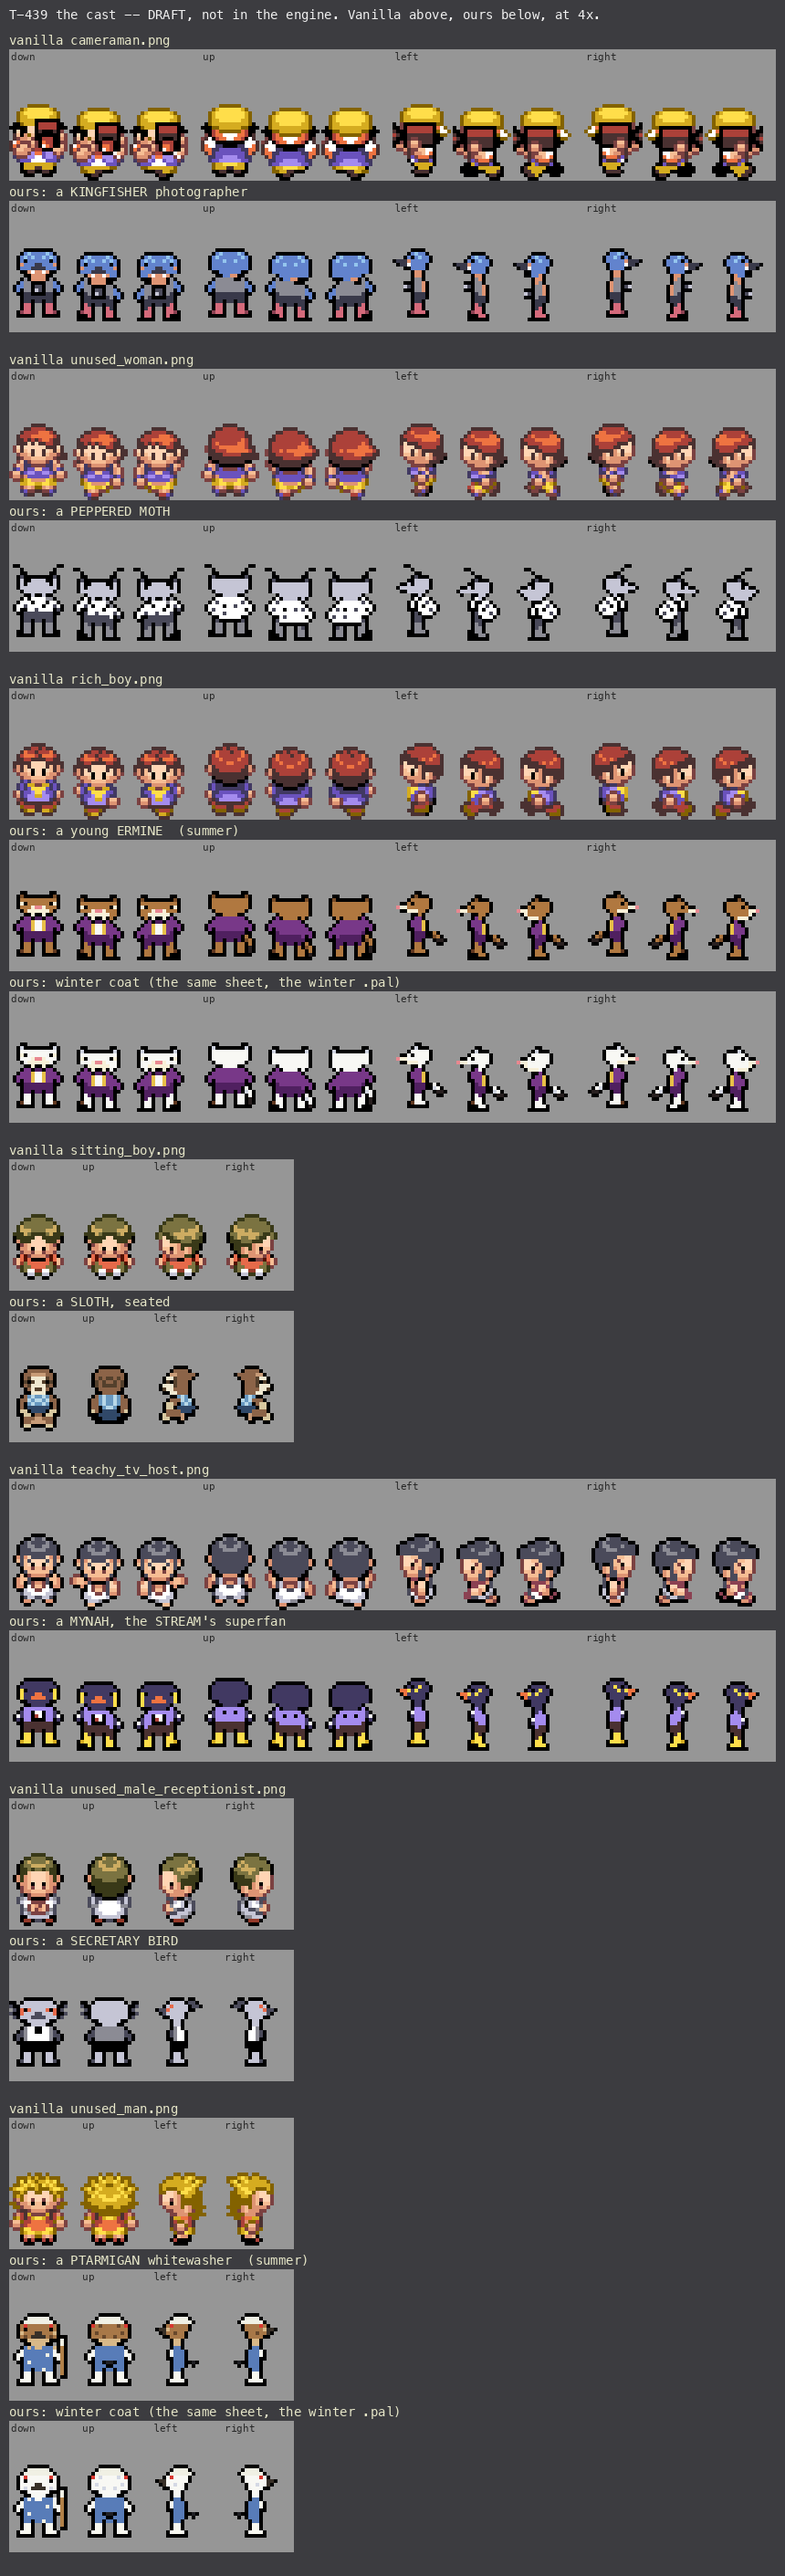
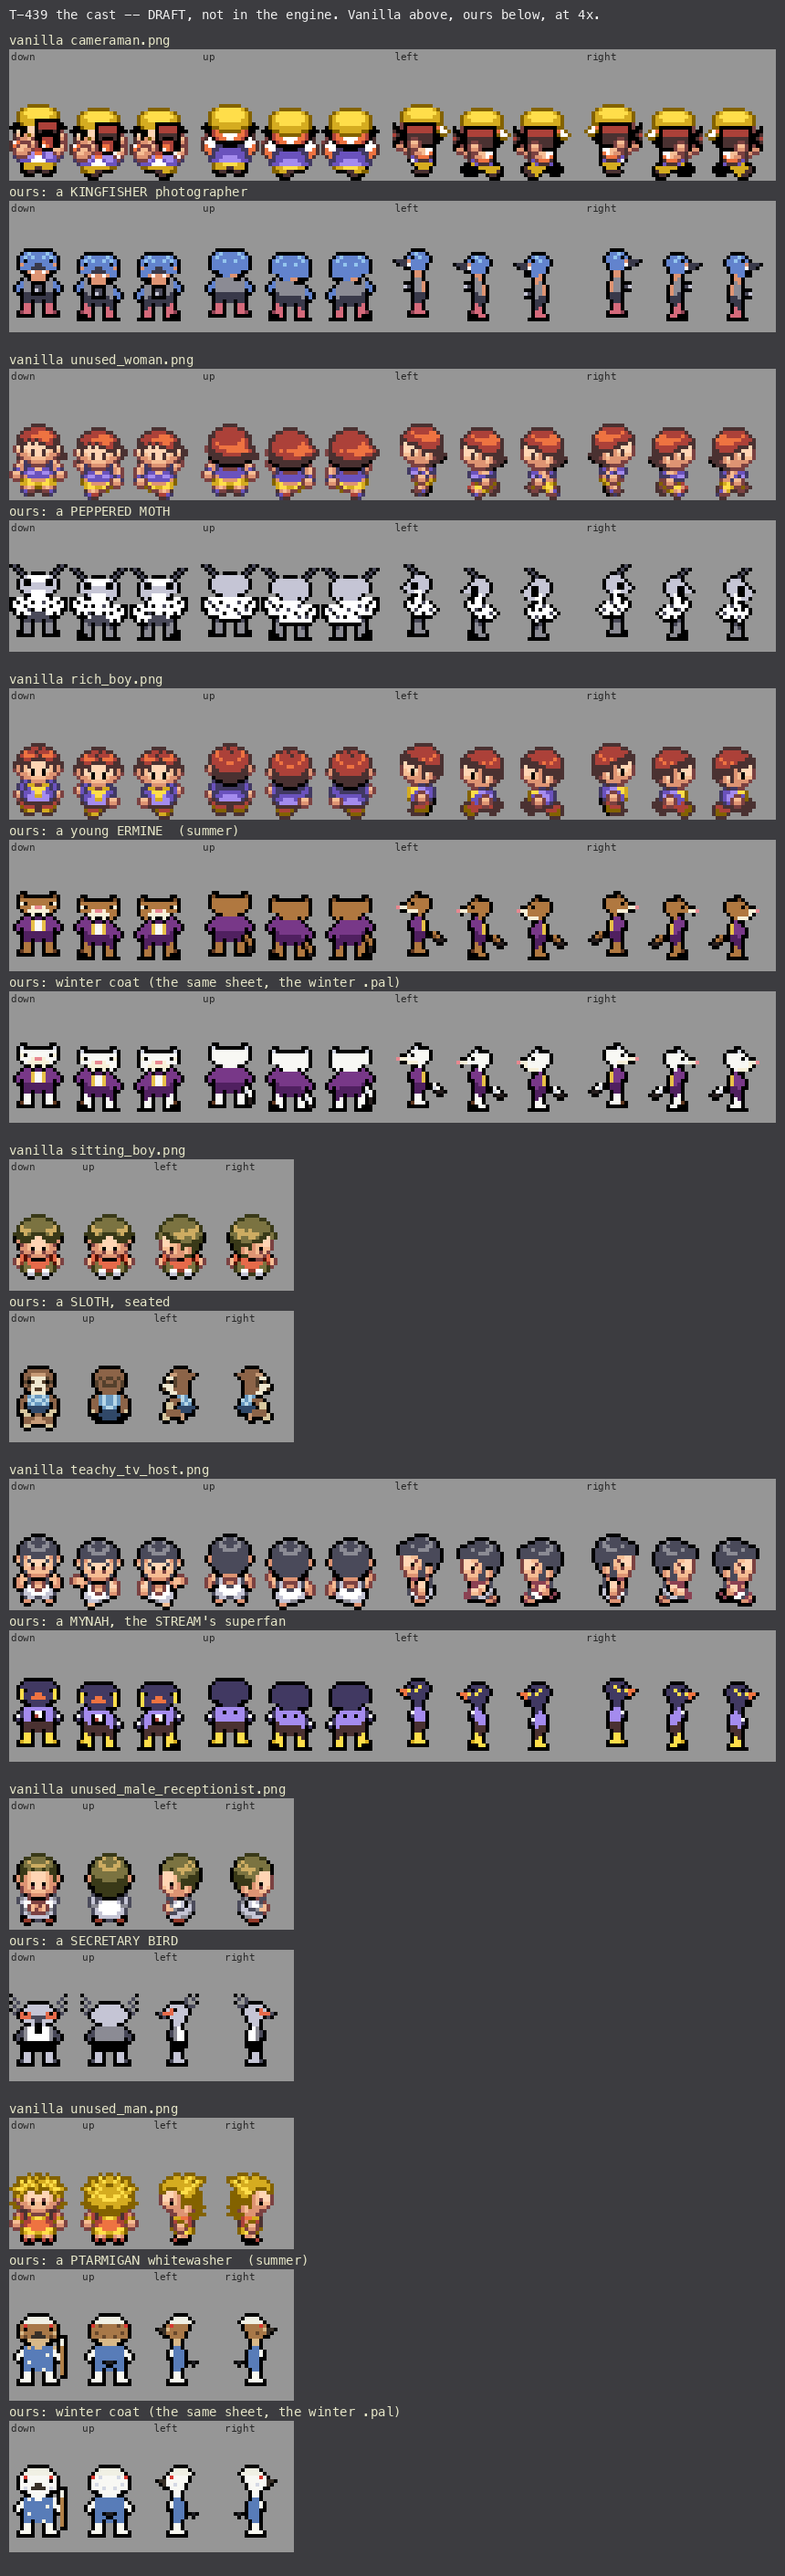
T-439 draft: the moth and secretary bird strengthened

diff --git a/tools/gencast.py b/tools/gencast.py
@@ -4,6 +4,8 @@
     python3 tools/gencast.py                  # report: who each one is, its frames, its palette, does it fit
     python3 tools/gencast.py --draft [DIR]    # the sheets and palettes as PNG/.pal in DIR (gfx/drafts/t439/)
     python3 tools/gencast.py --sheets DIR     # the contact sheets: vanilla beside ours at 4x, and each over its map at 2x
+                                              #   (--before OLD adds t439_draw_fix.png: the moth and secretary bird
+                                              #   against an earlier draft's sheets in OLD)
     python3 tools/gencast.py --write          # into the engine -- NOT YET: the cast is a draft until the user has
                                               #   seen the sheets (then --write --approved)
 
@@ -124,19 +126,20 @@ KINGFISHER = (_f, _b, _s)
 # ============================================================ the PEPPERED MOTH (unused_woman.png, npc_pink)
 # Speckled wings worn as a shawl, a pale furred face, big black eyes, two feathered antennae. She reads grey in
 # HALFTONE by design: so does her story.
-_h = mammal("w", "G", "w")
-_h = (put(put(put(_h[0], 4, 4, "K"), 5, 4, "K"), 4, 5, "K"), _h[1], put(put(_h[2], 5, 5, "K"), 4, 5, "K"))
-_f, _b, _s = fig(_h, "W", "WWWW", "G", "g", "K")
-_ant_f = [" KK          KK ", "   K        K   "]                    # two feathered antennae
-_f = overlay(_f, 0, _ant_f, 0)
-_b = overlay(_b, 0, _ant_f, 0)
-_s = overlay(_s, 0, ["   KK", "     K"], 0)
-for _r, _c in ((9, 5), (10, 10), (11, 4), (11, 12), (12, 7), (10, 2), (12, 13), (9, 10), (12, 4), (10, 6), (11, 9)):  # the pepper
-    _f = put(_f, _r, _c, "G" if (_r + _c) % 2 else "K")
-_f = overlay(_f, 9, ["      gg"], 4)                                # the shawl's knot at the throat
-_b = overlay(_b, 9, ["   KWWWWWWWWK", "  KWGWWWWWWGWK", " KWWWWKWWGWWWWK", " KWGWWWWWWWWKWK", "  KWWWGWWWWWWK",
-                     "   KKWWWWWWKK", "     KKKKKK"], 0)                # the wings, folded down her back
-_s = overlay(_s, 9, ["    KWWK", "   KWWGWK", "   KWKWWWK", "   KWWWGWK", "    KWWWK", "     KKK"], 3)
+# T-439 (the user, 2026-10-22): unmistakably a moth FROM THE FRONT -- the antennae feathered and spread wide, the
+# pepper dark and clear on pale, and the wings standing out behind her shoulders, so the head is drawn by hand.
+_ant = ["KGK     ", " KGK    ", "  KGK KK"]                             # feathered, spread wide, meeting the crown
+_mf = _ant + ["   KwWWW", "  KwKKWW", "  KwKKww", "  Kwwwww", "   KwwWW", "    KKWW"]   # big black eyes, a fluffy collar
+_mb = _ant + ["   Kwwww", "  Kwwwww", "  Kwwwww", "  Kwwwww", "   Kwwww", "    KKww"]
+_ms = ["   KGK", "    KGK", "     KGKK", "     KwwwK", "    KwwwwwK", "   KwKKwwwK", "  KwwKKwwwK",
+       "   KwwWWwK", "     KKWK"]
+_f, _b, _s = fig((_mf, _mb, _ms), "W", "WWWW", "G", "g", "K")
+_wings = mirror(["KKWWKWWW", "KWKWWWKW", "KWWWKWWW", "KKWWWWKW", " KWKWWGG", "  KKKGGG"])   # the shawl, wing-wide
+_f = overlay(_f, 9, _wings, 0)
+_f = put(put(put(_f, 10, 9, "G"), 12, 5, "G"), 11, 11, "K")          # and the pepper, never quite even
+_b = overlay(_b, 9, ["KKWWWWWWWWWWWWKK", "KWGWWKWWWWGWWKWK", "KWWKWWWGWWWWKWWK", "KKWWGWWWWKWWGWKK",
+                     " KWWWWKWWWGWWWK ", "  KKKWWWWWWKKK  ", "     KKKKKK     "], 0)   # the wings, folded down her back
+_s = overlay(_s, 9, ["  KKWWK", " KWKWWGWK", " KWWWKWWWK", "  KWGWWWGWK", "   KWWKWWK", "    KKKKK"], 2)
 MOTH = (_f, _b, _s)
 
 # ============================================================ the young ERMINE (rich_boy.png, a palette of his own)
@@ -162,17 +165,24 @@ ERMINE = (_f, _b, _s)
 #            w pale grey  g grey  G dark grey  W white  K black
 # Pale grey, the bare orange face, a hooked bill, the quills behind the head he is named for, black thighs as
 # trousers and the long legs; a grey waistcoat and a black tie at the desk.
-_h = bird("w", "R", "G")
-_h = (put(put(_h[0], 4, 3, "R"), 4, 5, "R"), _h[1], put(put(_h[2], 3, 5, "R"), 4, 4, "R"))
-_f, _b, _s = fig(_h, "G", "gWWW", "K", "w", "G")
+# T-439 (the user, 2026-10-22): the crest must read as QUILLS, not ears -- separate dark strokes raked back and out
+# behind both cheeks -- with the bare orange face and the hooked bill. The head is drawn by hand for it.
+_sf = ["K       ",
+       " G      ",
+       "K G  KKK",      # three quills a side, each its own stroke, raked out from behind the crown
+       " G  Kwww",
+       "K GKwwww",
+       " GKRKRww",      # the bare orange face round the eye
+       "  KRRRGG",      # the bill, broad at the base
+       "   KwwwG",
+       "    KKwK"]      # and its hook, dropping at the middle
+_sb = ["K       ", " G      ", "K G  KKK", " G  Kwww", "K GKwwww", " GKwwwww", "  Kwwwww", "   Kwwww", "    KKww"]
+_ss = ["          K K", "         G G", "     KKKKG  K", "    KwwwwKGG", "   KwRKwwwK", " KGRRRwwwwK", "  KGKwwwwK",
+       "     KwwwK", "     KwwK"]
+_f, _b, _s = fig((_sf, _sb, _ss), "G", "gWWW", "K", "w", "G")
 _f = overlay(_f, 9, ["KK"], 7)                                       # the tie
-_f = overlay(_f, 10, ["K"], 7)
-_f = overlay(_f, 10, ["K"], 8)
-_quills_f = ["KK            KK", "GKK          KKG", " GK          KG ", "GKK          KKG", " GK          KG "]
-_f = overlay(_f, 2, _quills_f, 0)                                    # the quills, raked back past both cheeks
-_b = overlay(_b, 2, _quills_f, 0)
+_f = overlay(_f, 10, ["KK"], 7)
 _b = [r.replace("W", "g") if 9 <= i <= 12 else r for i, r in enumerate(_b)]   # the waistcoat's back
-_s = overlay(_s, 1, ["          KK", "         KGGK", "          KGGK", "          KK"], 0)
 SECRETARY = (_f, _b, _s)
 
 # ============================================================ the PTARMIGAN whitewasher (unused_man.png, a palette of his own)
@@ -790,6 +800,31 @@ def map_sheet(path, z=2, span=(12, 8)):
     return path
 
 
+def fix_sheet(path, before, keys=("moth", "secretary"), z=6):
+    """before and after, front and side, for the ones redrawn: `before` holds the earlier draft's sheets by filename"""
+    cells = []
+    for c in CAST:
+        if c["key"] not in keys:
+            continue
+        old = Image.open(os.path.join(before, os.path.basename(c["file"])))
+        for label, img in (("before", old), ("after", build(c))):
+            for k, view in ((0, "front"), (2, "side")):
+                f = frame_rgba(img, k, 16)
+                bg = Image.new("RGB", (16, 32), BG)
+                bg.paste(f, (0, 0), f)
+                cells.append(("%s %s %s" % (c["key"], label, view), bg.resize((16 * z, 32 * z), Image.NEAREST)))
+    cw, chh = 16 * z + 84, 32 * z + 22
+    out = Image.new("RGB", (max(4 * cw + 16, 720), 2 * chh + 44), (60, 60, 64))
+    d = ImageDraw.Draw(out)
+    d.text((10, 8), "T-439 the moth and the secretary bird, before and after -- DRAFT, at %dx." % z, fill=(240, 240, 240), font=FONT)
+    for i, (label, cl) in enumerate(cells):
+        x, y = 10 + (i % 4) * cw, 36 + (i // 4) * chh
+        d.text((x, y), label, fill=(230, 230, 200), font=SMALL)
+        out.paste(cl, (x, y + 16))
+    out.save(path)
+    return path
+
+
 # ============================================================ main
 def main():
     if WRITE and "--approved" not in ARGS:
@@ -835,6 +870,8 @@ def main():
                   people_sheet(os.path.join(SHEETS, "t439_draw_riders_proteus.png"), [c for c in CAST if c["size"] == 32]),
                   map_sheet(os.path.join(SHEETS, "t439_draw_maps.png"))):
             print("  sheet -> %s" % p)
+        if argval("--before"):
+            print("  sheet -> %s" % fix_sheet(os.path.join(SHEETS, "t439_draw_fix.png"), argval("--before")))
 
     if WRITE:
         for c, img in built:
